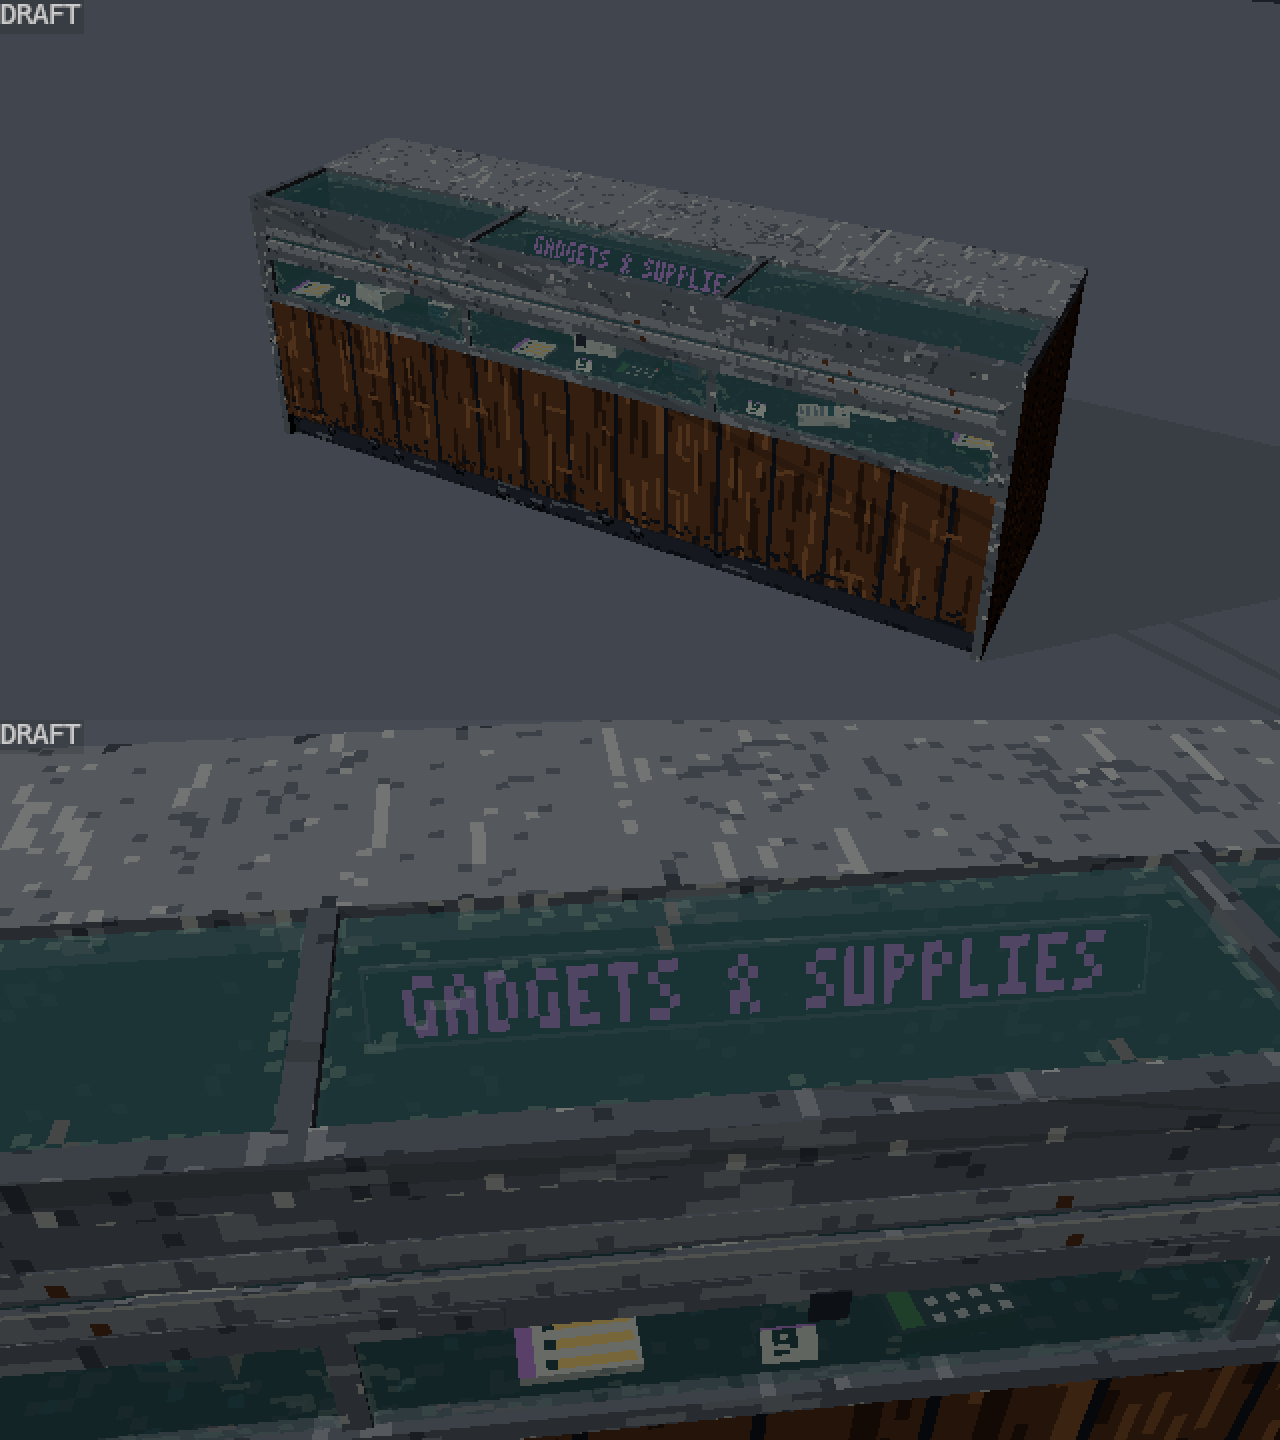
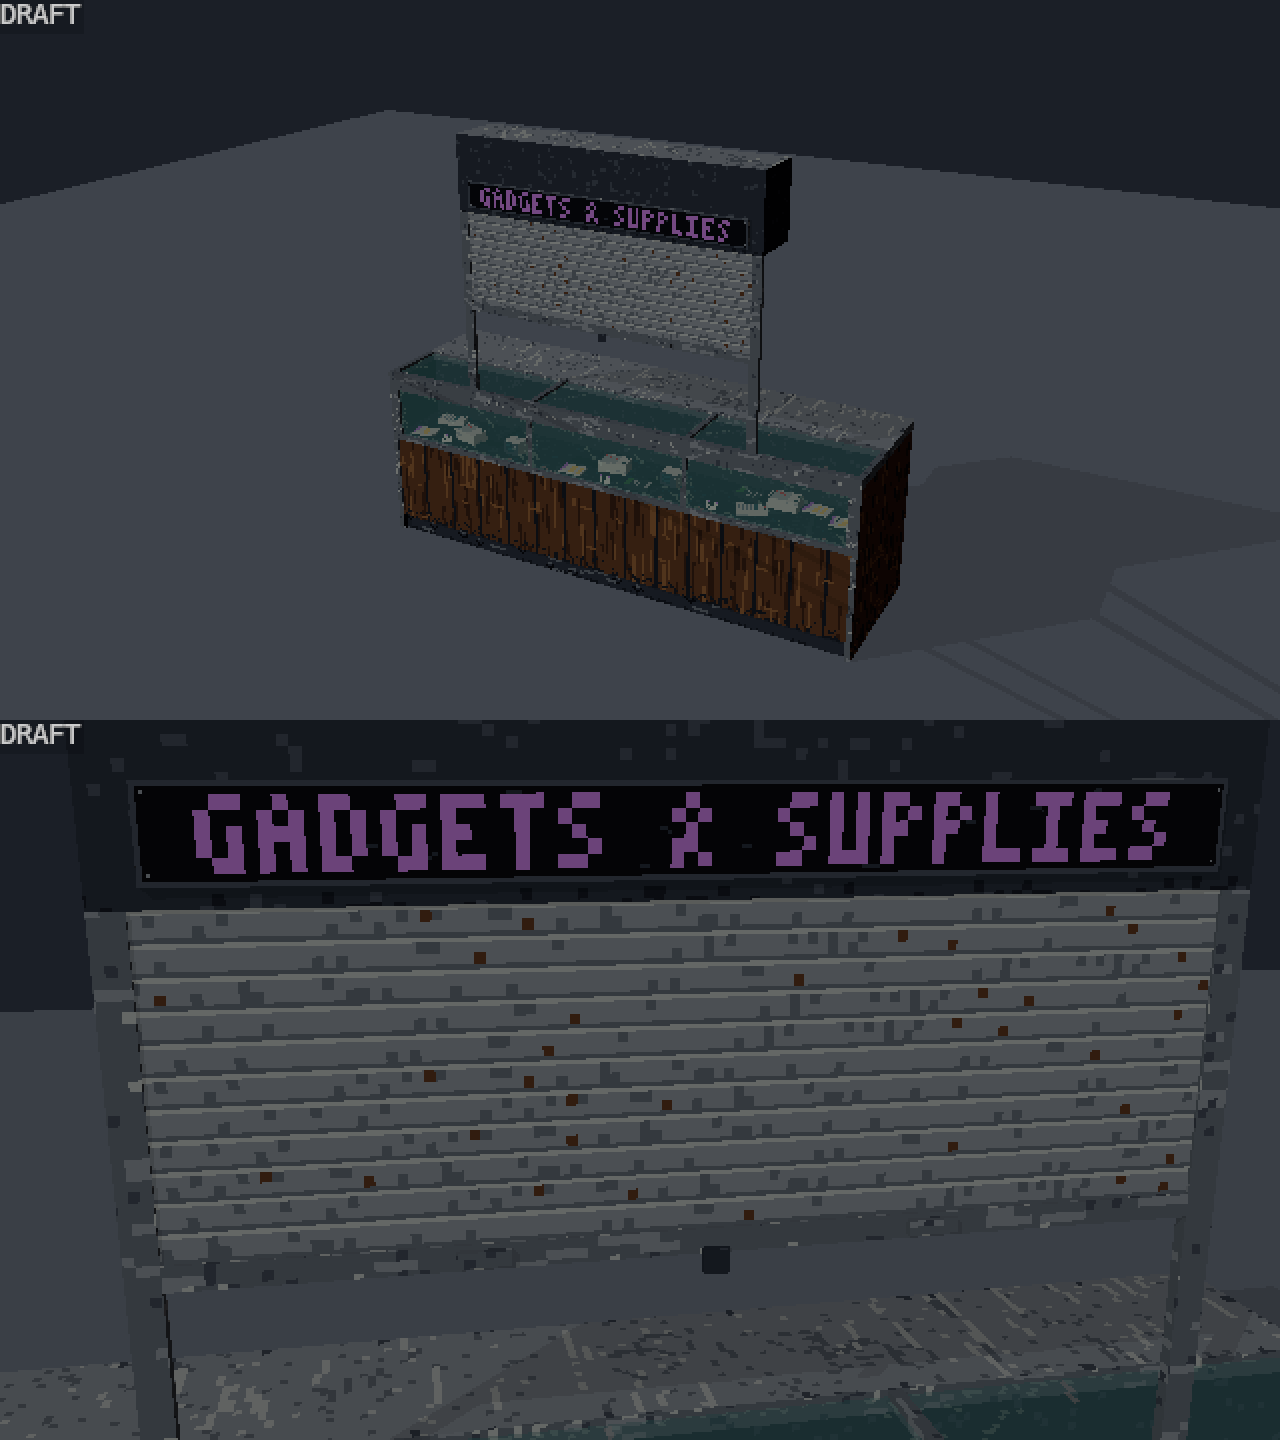
assets(P11): SM_Kiosk_Counter.fbx - 2.4 m: roll grille and sign box over the pass-through, counter 1.0 m (M008/5) - 588 tris, 2 materials; M013

diff --git a/docs/PIPELINE.md b/docs/PIPELINE.md
@@ -259,3 +259,21 @@ in `docs/ASSET-REQUESTS.md`.
   - **Ausrichtung und Import:** wie M009 (Blick nach Unity +Z, Pivot unten mittig; Rig "Humanoid", Avatar "Create From
     This Model"; Material `M_NPC_<Spezies>` mit der Albedo, Point, keine Mipmaps).
 - antwort: max/Claude, 03.11.: Integriert wie M012, alle 5 Avatare gültig, Ext_-Kurven (Kehlsack, Fühler, Mandibeln, Kiefer, Schwanz) in allen Clips vorhanden.
+
+### M013 — Nachbesserungen aus M008: Abflugtafel, Pflanzkübel, Kiosk-Tresen
+- datum: 2026-11-03
+- von: pipeline
+- an: team
+- betrifft: SM_Hall_DepartureBoard, SM_Hall_Planter, SM_Kiosk_Counter
+- status: offen
+- meldung: Die drei rework-Punkte aus M008 sind umgesetzt, die Einträge stehen auf `Vorschau`:
+  1. `SM_Hall_DepartureBoard` (Branch `assets/P04-hall`): Tafel unverändert (Höhe 3,2 m, Größe wie geliefert); die drei
+     Kabel laufen jetzt bis in einen Deckenflansch auf 6,0 m. Modell 2,0 x 2,0 x 6,0 m, 872 Tris.
+  2. `SM_Hall_Planter` (Branch `assets/P04-extras`, dort wurde er geliefert): neue `T_Hall_Planter_Emission.png`
+     (64 x 64): UV-Röhre und Fensterstreifen der Lampe leuchten Neonviolett, sonst alles schwarz. Modell unverändert
+     (498 Tris); Material: Emission-Map + Emission-Farbe weiß, die Stärke nach Geschmack.
+  3. `SM_Kiosk_Counter` (Branch `assets/P11-P13-kiosk-drone`): Tresen bleibt 1,0 m. Darüber zwei Führungsschienen an
+     den Kanten der 1,6 m breiten Durchreiche, das Rollgitter halb heruntergelassen (2,0 -> 1,5 m) und oben der
+     Gitterkasten (2,0-2,4 m) mit dem violetten Leuchtschild 'GADGETS & SUPPLIES' auf 2,03-2,17 m - genau der Streifen,
+     den man aus der Halle unter dem Sturz (2,2 m) sieht. Modell 0,8 x 2,8 x 2,4 m, 588 Tris. Das alte Schild in der
+     Vitrine und das Gitter vor der Frontscheibe sind weg. Collider bitte auf die neue Höhe anpassen.

diff --git a/docs/ASSET-REQUESTS.md b/docs/ASSET-REQUESTS.md
@@ -1271,7 +1271,7 @@ feedback: []
 path: Assets/_Project/Art/Models/Kiosk/SM_Kiosk_Counter.fbx
 package: P11
 scene: Kiosk
-status: rework
+status: Vorschau
 priority: P1
 needed_by: 2026-11-16
 size_m: [0.8, 2.8, 2.4]
